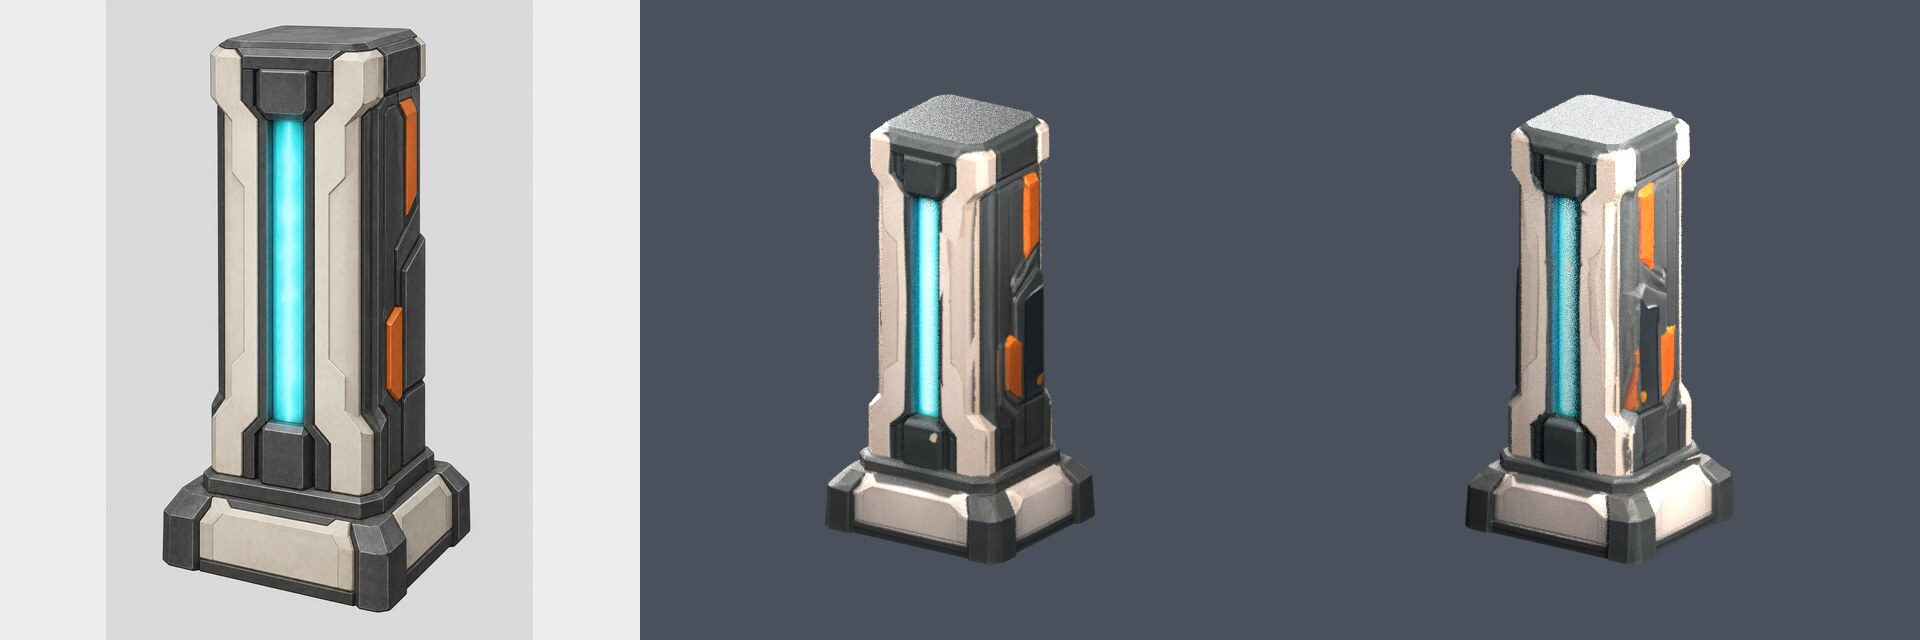
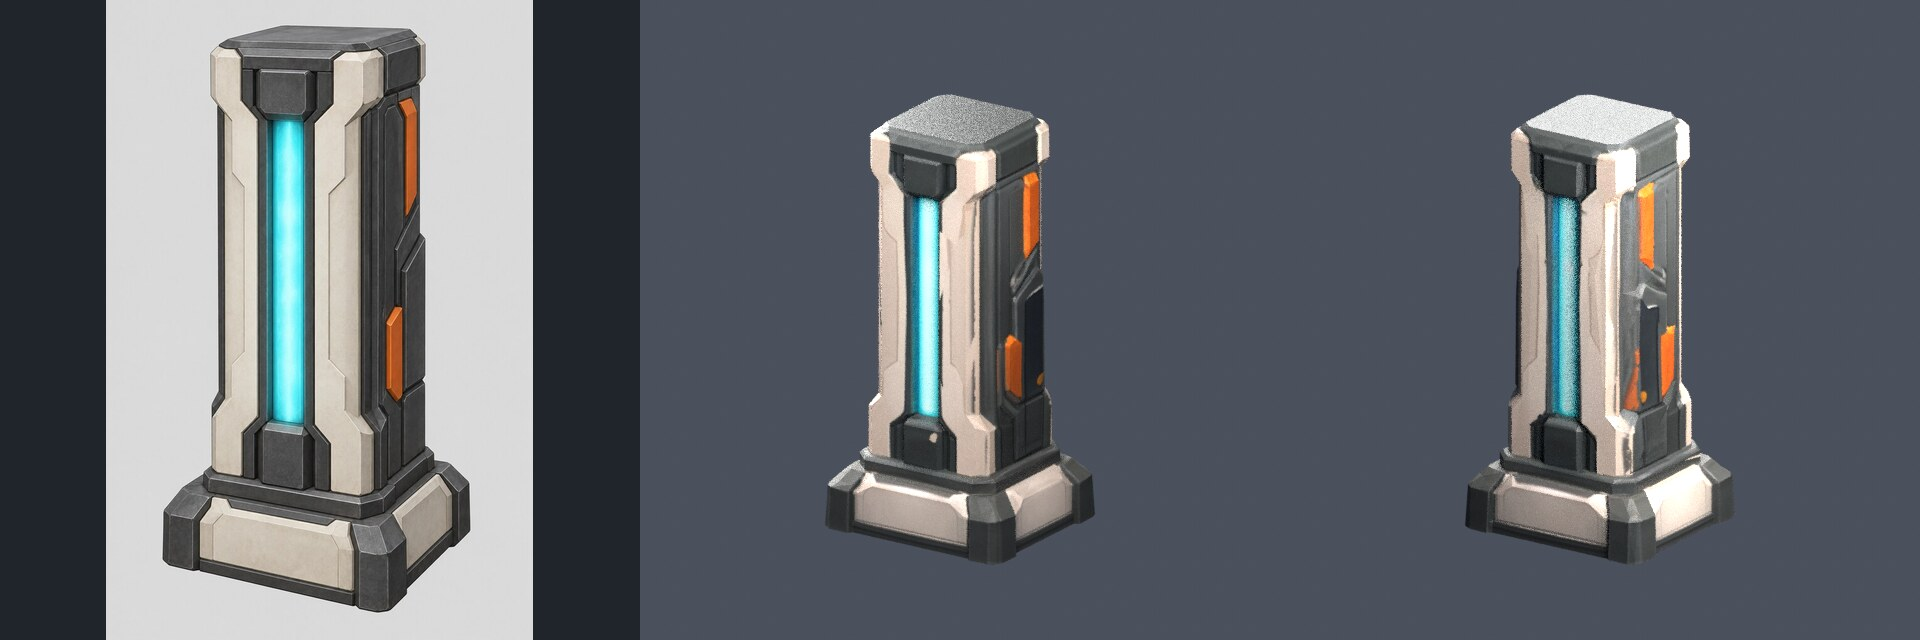
Fix static MD3 surfaces to respect renderer runtime limits
Amp-Thread-ID: https://ampcode.com/threads/T-01a08658-8795-73f8-974d-6ea071d20a31

Changed region(s): [[0.25, 0.0, 0.3438, 1.0], [0.0, 0.0, 0.0625, 1.0]]

diff --git a/misc/remaster-assets/test_md3_static.py b/misc/remaster-assets/test_md3_static.py
@@ -9,6 +9,17 @@ def vertex(position, uv=(0.25, 0.75), normal=(0, 0, 1)):
     return position, uv, normal
 
 
+def binary_surface_counts(data):
+    # Independent qfiles.h offsets, not exporter constants or read_md3.
+    count = struct.unpack_from("<i", data, 84)[0]
+    offset = struct.unpack_from("<i", data, 100)[0]
+    counts = []
+    for _ in range(count):
+        counts.append(struct.unpack_from("<2i", data, offset + 80))
+        offset += struct.unpack_from("<i", data, offset + 104)[0]
+    return counts
+
+
 class StaticMD3Tests(unittest.TestCase):
     def setUp(self):
         self.triangle = [vertex((-3.25, 2, 0)), vertex((5, 1, 0)), vertex((0, 4.5, 8))]
@@ -46,12 +57,37 @@ class StaticMD3Tests(unittest.TestCase):
         self.assertEqual(surface["triangles"], [(0, 1, 2), (3, 1, 2)])
 
     def test_surface_split_preserves_all_triangles(self):
-        # Each triangle has distinct UVs, forcing >4096 vertices even with shared XYZ.
+        # Each triangle has distinct UVs, forcing splits even with shared XYZ.
         triangles = [[vertex(v[0], (index/1500, corner/3)) for corner, v in enumerate(self.triangle)] for index in range(1400)]
         surfaces = read_md3(write_md3(triangles, "a"))["surfaces"]
-        self.assertEqual(len(surfaces), 2)
+        self.assertEqual(len(surfaces), 5)
         self.assertEqual(sum(len(s["triangles"]) for s in surfaces), 1400)
-        self.assertTrue(all(len(s["positions"]) <= 4096 for s in surfaces))
+        self.assertTrue(all(len(s["positions"]) <= 999 for s in surfaces))
+
+    def test_999_vertices_fit_and_1000th_vertex_forces_split(self):
+        triangles = [[vertex(v[0], (index/1000, corner/3)) for corner, v in enumerate(self.triangle)] for index in range(333)]
+        at_limit = write_md3(triangles, "a")
+        self.assertEqual(binary_surface_counts(at_limit), [(999, 333)])
+        # One new UV vertex plus two previously seen vertices: exactly 1000,
+        # not a three-new-vertex test which could miss an off-by-one split.
+        extra = [vertex(self.triangle[0][0], (0.9, 0)), *triangles[0][1:]]
+        split = write_md3([*triangles, extra], "a")
+        self.assertEqual(binary_surface_counts(split), [(999, 333), (3, 1)])
+        invalid = bytearray(at_limit)
+        struct.pack_into("<i", invalid, 164 + 80, 1000)
+        with self.assertRaisesRegex(ValueError, "surface counts"):
+            read_md3(invalid)
+
+    def test_5997_indices_fit_and_6000_indices_force_split(self):
+        # Shared vertices isolate the index limit from the vertex limit.
+        at_limit = write_md3([self.triangle] * 1999, "a")
+        self.assertEqual(binary_surface_counts(at_limit), [(3, 1999)])
+        split = write_md3([self.triangle] * 2000, "a")
+        self.assertEqual(binary_surface_counts(split), [(3, 1999), (3, 1)])
+        invalid = bytearray(at_limit)
+        struct.pack_into("<i", invalid, 164 + 84, 2000)
+        with self.assertRaisesRegex(ValueError, "surface counts"):
+            read_md3(invalid)
 
     def test_quantization_collapsed_face_and_corrupt_index_rejected(self):
         with self.assertRaisesRegex(ValueError, "collapses"):

diff --git a/misc/remaster-assets/blender_static.py b/misc/remaster-assets/blender_static.py
@@ -11,7 +11,7 @@ import bmesh
 from mathutils import Vector
 
 sys.path.insert(0, str(Path(__file__).parent))
-from md3_static import read_md3, write_md3
+from md3_static import RUNTIME_MAX_INDEXES, RUNTIME_MAX_VERTS, read_md3, write_md3
 
 
 def selected(obj):
@@ -185,6 +185,7 @@ def main(source, output, config):
     (output / "remaster.shader").write_text(shader + "\n{\n    {\n        map " + shader + ".tga\n        rgbGen lightingDiffuse\n    }\n}\n")
     # Save source/baked master before making a *decoded MD3* inspection mesh.
     texture.pack()
+    bpy.context.preferences.filepaths.save_version = 0
     bpy.ops.wm.save_as_mainfile(filepath=str(output / "cleaned.blend"))
     mesh = bpy.data.meshes.new("md3_roundtrip")
     positions, faces, uvs, normals = [], [], [], []
@@ -207,6 +208,9 @@ def main(source, output, config):
     report = {"blender_version": bpy.app.version_string, "source_sha256": hashlib.sha256(source.read_bytes()).hexdigest(),
               "input_polygons": before, "output_triangles": len(faces), "output_vertices": len(positions),
               "surfaces": len(parsed["surfaces"]), "bounds_q3": parsed["bounds"],
+              "surface_counts": [{"vertices": len(s["positions"]), "triangles": len(s["triangles"]),
+                                  "indices": len(s["triangles"]) * 3} for s in parsed["surfaces"]],
+              "runtime_surface_limits": {"vertices": RUNTIME_MAX_VERTS, "indices": RUNTIME_MAX_INDEXES},
               "md3_sha256": hashlib.sha256(md3).hexdigest(), "frames": 1,
               "render_source": "decoded exported MD3 + baked runtime TGA", "runtime_accepted": False,
               "material_limitations": "Diffuse only; no PBR/emission preservation claim", "units_per_meter": units}

diff --git a/misc/remaster-assets/md3_static.py b/misc/remaster-assets/md3_static.py
@@ -10,6 +10,10 @@ import struct
 HEADER = struct.Struct("<4si64s9i")
 SURFACE = struct.Struct("<4s64s10i")
 FRAME = struct.Struct("<10f16s")
+# R_LoadMD3 rejects counts >= SHADER_MAX_VERTEXES/SHADER_MAX_INDEXES
+# (qfiles.h: 1000 and 6000). These are stricter than the MD3 format limits.
+RUNTIME_MAX_VERTS = 999
+RUNTIME_MAX_INDEXES = 5999
 
 
 def name_bytes(value, size=64):
@@ -63,7 +67,7 @@ def write_md3(triangles, shader, model_name="static-prop"):
         if not any(cross):
             raise ValueError("Triangle collapses after MD3 quantization")
         missing = set(encoded) - lookup.keys()
-        if len(vertices) + len(missing) > 4096 or len(indices) >= 8192:
+        if len(vertices) + len(missing) > RUNTIME_MAX_VERTS or (len(indices) + 1) * 3 > RUNTIME_MAX_INDEXES:
             flush()
         tri_indices = []
         for vertex in encoded:
@@ -116,7 +120,7 @@ def read_md3(data):
         if offset + SURFACE.size > end:
             raise ValueError("Truncated surface")
         ident, surface_name, flags, nframes, nshaders, nverts, ntris, ot, osh, ouv, ov, oe = SURFACE.unpack_from(data, offset)
-        if ident != b"IDP3" or nframes != 1 or nshaders != 1 or not 1 <= nverts <= 4096 or not 1 <= ntris <= 8192:
+        if ident != b"IDP3" or nframes != 1 or nshaders != 1 or not 1 <= nverts <= RUNTIME_MAX_VERTS or not 1 <= ntris * 3 <= RUNTIME_MAX_INDEXES:
             raise ValueError("Invalid surface counts")
         if not (ot == SURFACE.size and osh == ot + ntris*12 and ouv == osh+68 and ov == ouv+nverts*8 and oe == ov+nverts*8 and offset+oe <= end):
             raise ValueError("Invalid surface offsets")

diff --git a/assets/remaster/receipts/energy-pillar-v2-review.md b/assets/remaster/receipts/energy-pillar-v2-review.md
@@ -43,19 +43,32 @@ model switch. It was not a replay of an unknown task. No other models were tried
   pivot, decimated from 40000 input polygons to **1800 triangles**. Quantized
   bounds: x −15.875..15.90625, y −14.203125..14.21875, z 0.015625..63.984375
   Q3 units. The small bound shift is from decimation after initial scaling.
-- Output: **5013 vertices across 2 MD3 surfaces**, one frame, one material,
+- Output: **5051 vertices across 6 MD3 surfaces**, one frame, one material,
   1024×1024 baked base-color TGA. The split handles UV/normal seam duplication;
-  each surface meets the 4096-vertex limit. MD3: 102324 bytes.
+  each surface meets actual renderer limits: ≤999 vertices and ≤5999 indices
+  (whole triangles allow at most 5997). MD3: 103636 bytes.
+  Surface vertex/triangle/index counts: 997/350/1050, 999/360/1080,
+  998/354/1062, 997/356/1068, 997/359/1077, 63/21/63.
+  The prior two-surface package was format-valid but **runtime-invalid** and is
+  superseded: `R_LoadMD3` rejects ≥1000 vertices or ≥6000 indices. No engine
+  limits were changed. Independent binary decoding confirmed all 1800 ordered
+  triangles, UVs and encoded normals identical; texture/shader bytes unchanged.
+  All 23 tests passed including real Blender processing and independent binary
+  boundary cases (999→1000 vertices, 5997→6000 indices). Reprocessing used only
+  local sources; generation IDs, submissions and charges are unchanged.
 - Front/back review renders are made from **decoded exported MD3 positions,
   UVs and quantized normals**, not the unexported GLB. Both views show complete
   structure with no obvious holes/floating parts or UV/black-texture failure.
   Silhouette and palette remain recognizable. Some texture/render grain remains;
   close-up art polish and in-engine filtering/light response are pending.
+  The rebuilt review shows no new split seams/missing chunks; noisy surfaces
+  and fragmented rear panel appearance remain art-polish issues, not resolved
+  by this export-limit correction. Blender renders are not runtime validation.
 - PBR material has been deliberately reduced to base-color diffuse. This does
   not preserve metallic highlights, normal maps or true emission. Original GLB
   remains available for a future GL2 material pass. No collision is supplied.
-- PK3 size: **1,629,307 bytes**, SHA-256
[1 lines of base64/hex data omitted]
+- PK3 size: **1,624,174 bytes**, SHA-256
[1 lines of base64/hex data omitted]
   Only model, TGA and shader are packaged. No source data, credentials, remote
   URLs or test-fixture geometry is included.
 
@@ -72,9 +85,10 @@ model switch. It was not a replay of an unknown task. No other models were tried
 
 Raw source/master files are ignored by Git and currently retained in this
 production thread's orb. **Durable external archival is still pending.** The
-main thread can use `download_thread_file` for those exact paths, then verify
-against the machine receipt. Do not regenerate because a checkout lacks raw
-files. This production thread must not be discarded before source handoff.
+main thread confirmed download/hash verification of the original three source
+files. Prototype/GLB hashes remain unchanged; the locally resaved Blender master
+has an updated hash in the machine receipt and can be downloaded again if needed.
+Do not regenerate because a checkout lacks raw files.
 
 ## Receiving engine workstream
 

diff --git a/misc/remaster-assets/README.md b/misc/remaster-assets/README.md
@@ -121,10 +121,13 @@ The receiving engine workstream must load it from the virtual filesystem, add
 it to a controlled test scene, check orientation/lighting/scaling and browser
 memory, and provide engine review. `runtime_accepted` stays false here.
 
-MD3 export: one frame, no tags/rig; UV seam/normal splits, ≤4096 vertices and
-≤8192 triangles per surface, ≤32 surfaces, strict signed-short × 1/64 position
-range, no quantization-collapsed triangles. It will refuse problematic output
-rather than silently wrap coordinates. It is not a generic character exporter.
+MD3 export: one frame, no tags/rig; UV seam/normal splits, **≤999 vertices and
+≤5999 indices per surface** (whole triangles therefore ≤1999 / 5997 indices),
+≤32 surfaces, strict signed-short × 1/64 position range, no quantization-collapsed
+triangles. `R_LoadMD3` in `code/renderergl2/tr_model.c` rejects counts ≥1000
+vertices or ≥6000 indices (`SHADER_MAX_*` in `qfiles.h`), stricter than the MD3
+format's 4096/8192 limits. Both writer and read-back/package validation enforce
+the runtime limits. It is not a generic character exporter.
 
 ## Tests (no network or paid generation)
 
